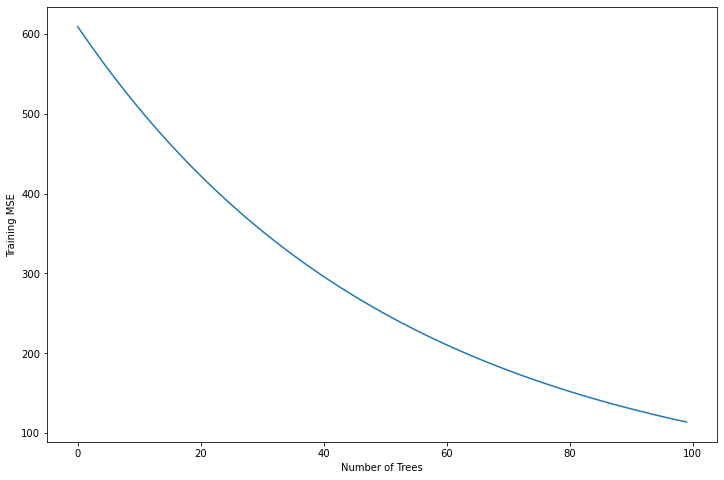
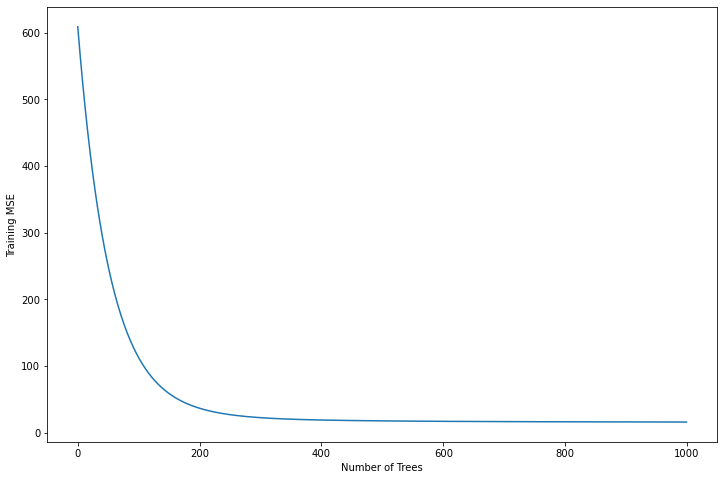
boosted decision stump readme cleaned

diff --git a/Decision Stump - Boosting/README.md b/Decision Stump - Boosting/README.md
@@ -1,6 +1,17 @@
 # The Algorithm - Regression Trees
-- Assuming all feature values are quantitative.  
-- The below algorithm is to build a decision stump i.e. a decision tree with only one split.
+
+## Problem Setup
+
+### Decision Tree
+- Given an object space $X_i \in {X_1, X_2, \dots, X_n}$, the objective is to divide them into different regions $(R_j)$
+- A new data-point $X_k$ is classified (predicted) by the modal (mean) value of the region it belongs to.
+- The splitting rules can be summarised or presented very efficiently in a tree like data structure, which is not showcased here.
+
+### Boosting
+
+
+
+Here the `Boston` dataset is used, off which only two variables are selected as features. This is because the algorithm is quite time consuming if not programmed efficiently. The below algorithm is to build a decision stump i.e. a decision tree with only one split.
 
 ### Init Stump Variables
 
@@ -181,6 +192,7 @@ data.head()
 
 ## Building a Decision Stump
 
+- Decision Stump is a decision tree with only one split. A simple model with a very high **Bias**.
 
 ```python
 def decision_stump(features, labels, num_thresholds=200):
@@ -289,6 +301,18 @@ print(f"Test MSE: {test_mse:>5.4f}")
 ## Boosted Stump
 
 We have a decision stump and we can perform predictions using it. But as we can see that MSE value is quite large. This can be minimized by using a Boosted Tree.  
+
+The primary goal of Boosting is to take a model with very high bias and slowly increase it's complexity (variance) by fitting the same model but the target variable is the residuals. The mathematical calculations are shown below:
+
+$$
+\begin{align}
+r_i & = Y_i & \dots\text{Initial Residuals} \\
+r'_i & = r_i - \hat{f}(X_i) * \eta & \dots \text{$\hat{f}$ = decision stump} \\
+\hat{f_b}(X) & = \sum_{b = 1}^{B} \eta \hat{f_b}(x) = \eta * \sum_{b = 1}^{B} \hat{f_b}(x) & \dots \text{Final Prediction using all the decision stumps fitted to the residuals} \\
+&& \text{As $\eta$ is constant we can pull it out, compute the sum and then perform the product.}
+\end{align}
+$$
+
 Some popular implementations available are Adaboost and XGBoost.  
 
 Things required to build a boosted tree:
@@ -298,17 +322,10 @@ Things required to build a boosted tree:
 - Number of Boosted Trees $(B)$
 
 <span style="color:red;font-weight:500;font-size:20px">
-    🚨Crucial $\rightarrow$ Residual Calculations.
+    🚨Crucial: Residual Calculations.
     It should be noted that we are trying to fit the residuals.
     <p>This will be again used during predictions.</p>
 </span>
-
-$\begin{align}
-r_i & = Y_i & \dots\text{Initial Residuals} \\
-r'_i & = r_i - \hat{f}(X_i) * \eta & \dots \text{$\hat{f}$ = decision stump} \\
-\hat{f_b}(X) & = \sum_{b = 1}^{B} \eta \hat{f_b}(x) = \eta * \sum_{b = 1}^{B} \hat{f_b}(x) & \dots \text{Final Prediction using all the decision stumps fitted to the residuals} \\
-&& \text{As $\eta$ is constant we can pull it out, compute the sum and then perform the product.}
-\end{align}$
 
 
 ```python
@@ -399,7 +416,7 @@ boosted_tree_num = 1000
 boosted = boosted_stump(features=X_train, labels=Y_train, lr=learning_rate, boosted_num=boosted_tree_num)
 ```
 
-    Fitting Boosted Tree: 100%|##########################################################################################################################################################| 100/100 [01:46<00:00,  1.07s/it]
+    Fitting Boosted Tree: 100%|########################################################################################################################################################| 1000/1000 [19:18<00:00,  1.16s/it]
 
 
 
@@ -529,21 +546,31 @@ for max_idx in range(boosted_tree_num):
 
 
 ```python
-plt.figure(figsize=(12, 8))
+zipped = zip(iter(np.array(test_mse) > boosted_df['training_mse'].values), range(len(test_mse)))
+
+for condition, idx in zipped:
+    if condition:
+        first_idx = idx
+        break
+```
+
+
+```python
+plt.figure(figsize=(20, 12))
 plt.plot(boosted_df['training_mse'], label='Training MSE');
 plt.plot(test_mse, label='Test MSE');
 plt.ylabel('MSE');
-plt.xlabel('Number of Trees');
+plt.xlabel(f'Number of Trees {boosted_tree_num}');
+plt.plot(first_idx, test_mse[first_idx], marker='X', color='r', markersize=20)
 plt.legend();
 ```
 
 
     
-![png](img/output_27_0.png)
+![png](img/output_28_0.png)
     
 
 
+From the above plots it is evident that Boosted Trees have a high bias when the number of trees is small, but with gradual increase of the number of trees that fits the residuals we are increasing the model complexity i.e. variance.
 
-```python
-
-```
+The boosted trees do over-fit the training data, indicated by the red-cross where the `TEST MSE` crosses the `TRAIN MSE`, but that happens at a very slow ratee, that too by a very small margin.

diff --git a/README.md b/README.md
@@ -11,4 +11,4 @@ A list of algorithms which are explored here are listed below:
 
 The list will be increasing with time..
 
-*Note: All the algorithms are coded using Python programming language. I plan to implement the same using other programming languages of interset (e.g. C++, Rust or Node), which will serve as a process of grasping the programming language. The codes will be written keeping the algorithm efficiency i.e.* $Big(O)$ *, in mind but is not recommended to use them in production system. It is purely for learning and understanding purpose.*
+> *Note: All the algorithms are coded using Python programming language. The codes will be written without keeping the efficiency, in mind because the primary goal i.e. understanding. It is not recommended to use the code in production systems. It is purely for learning and understanding purpose.*
